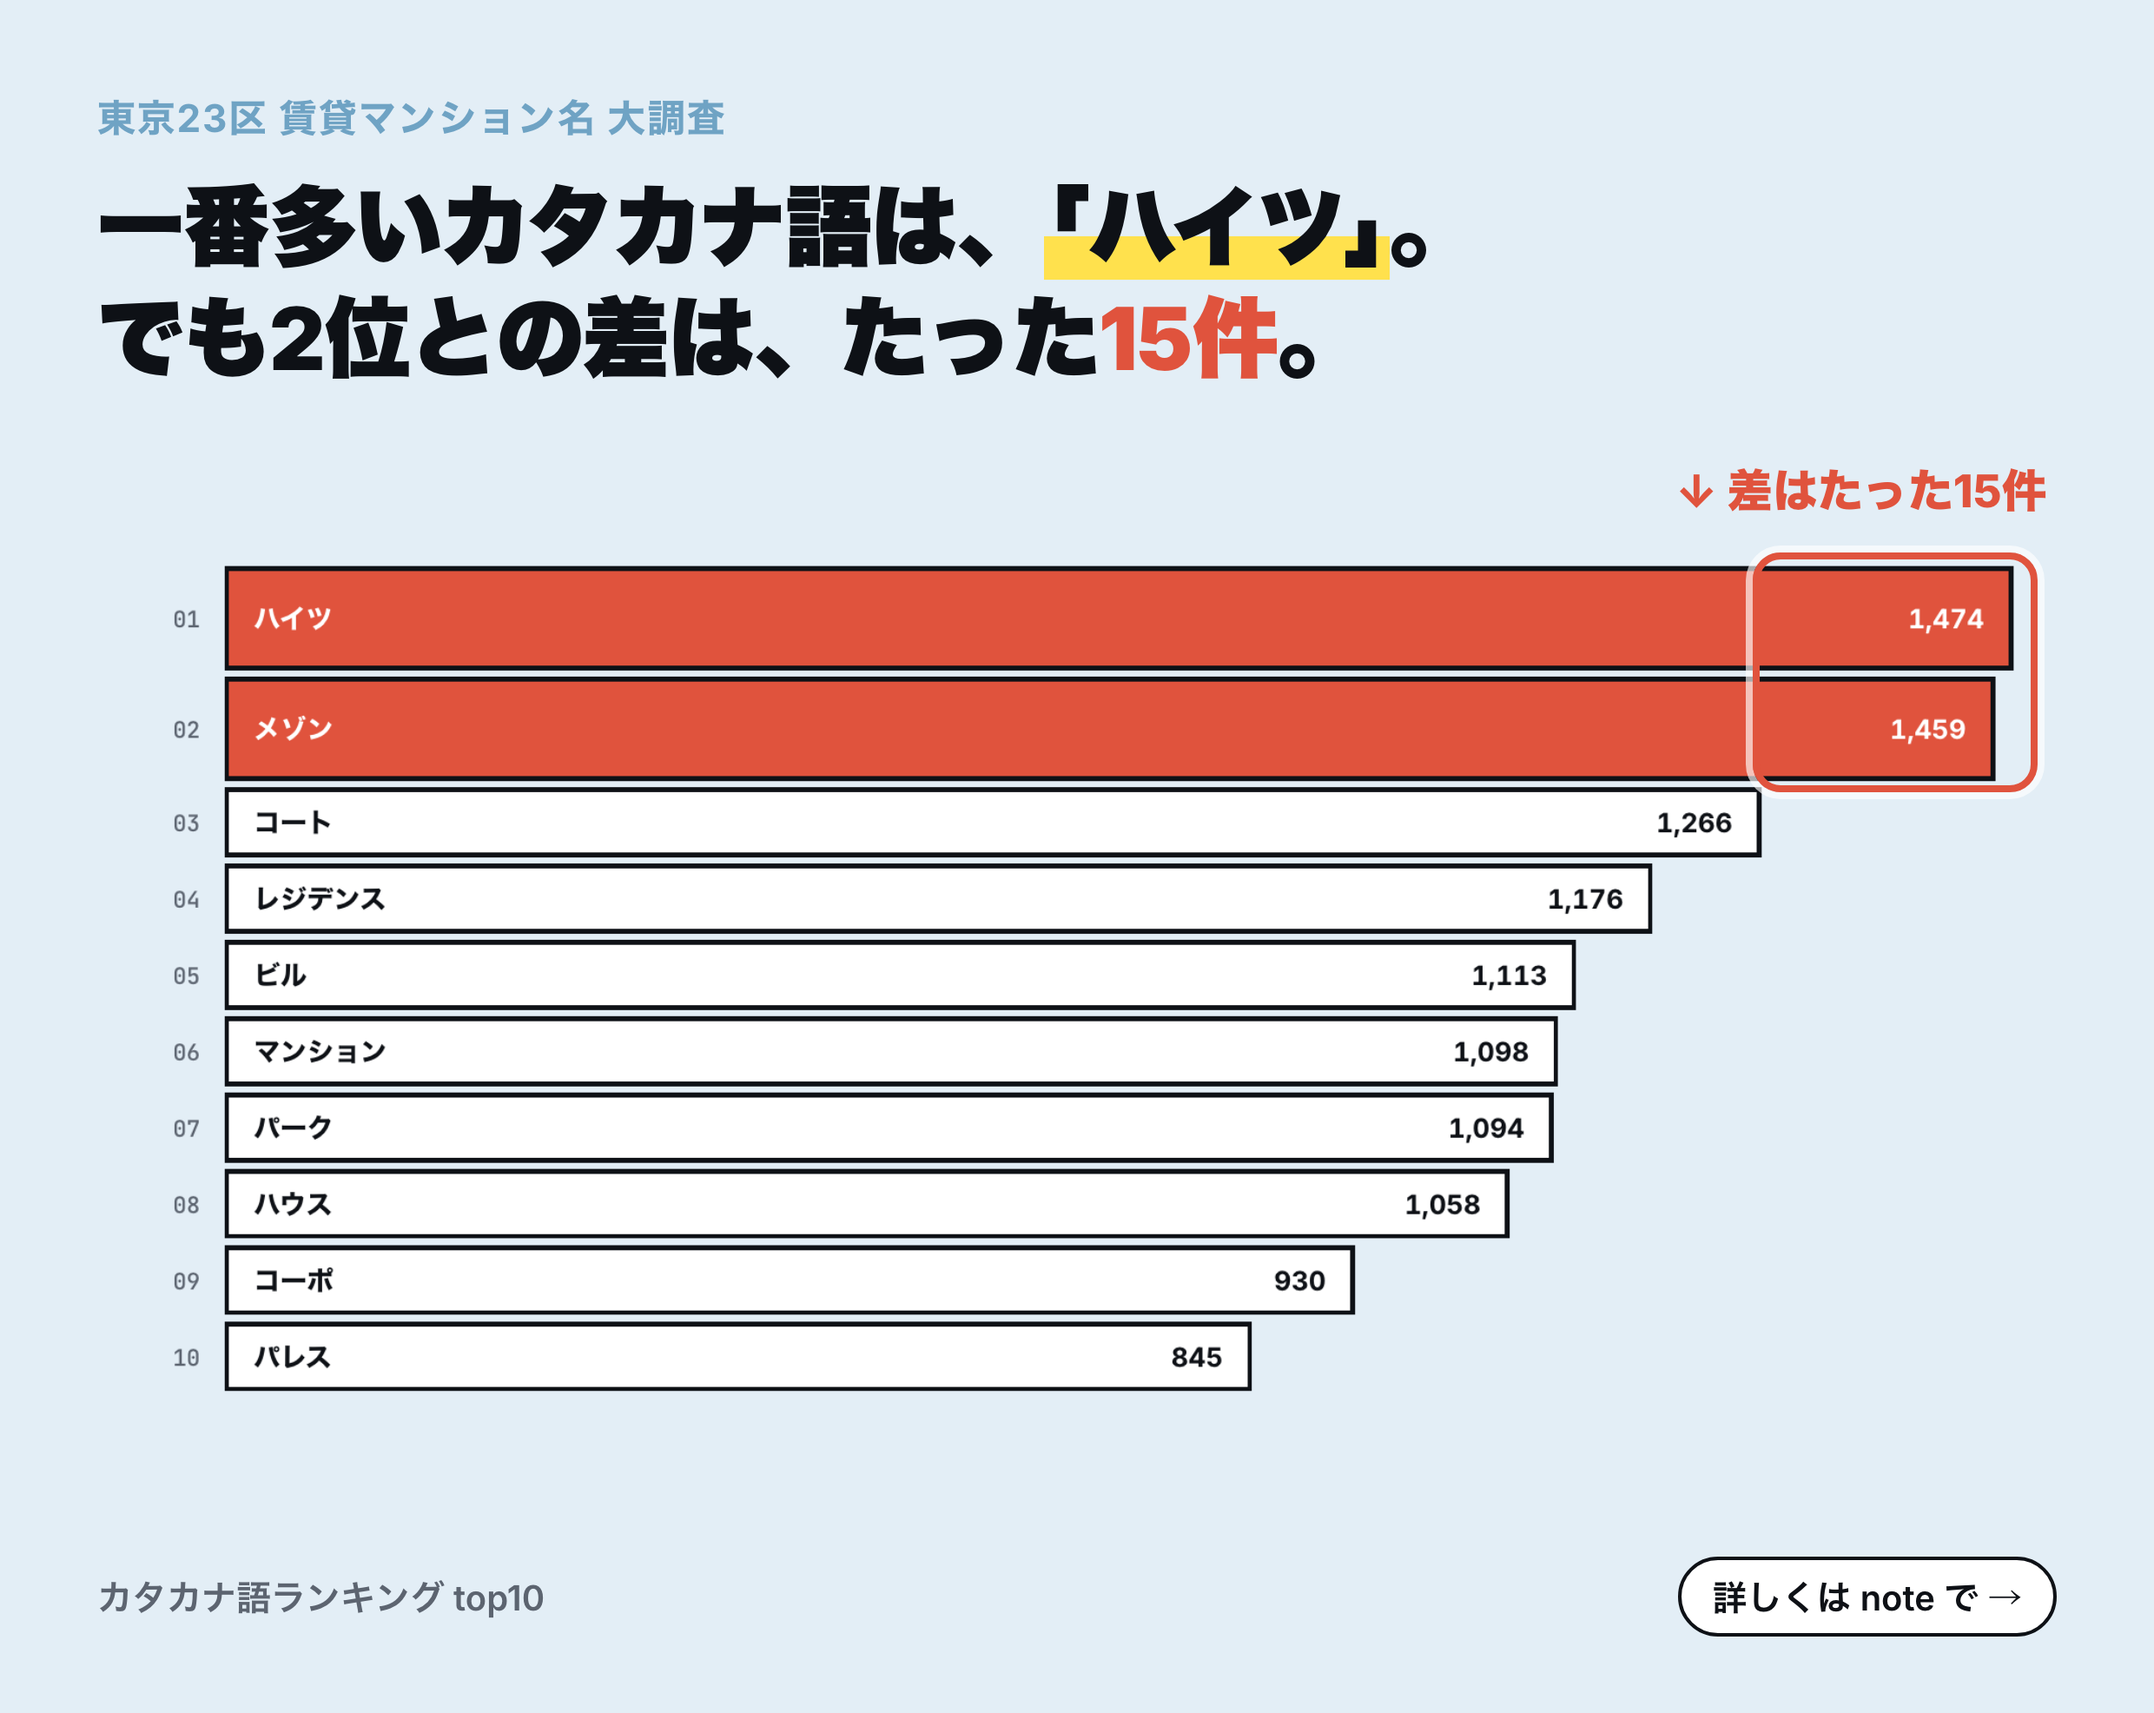
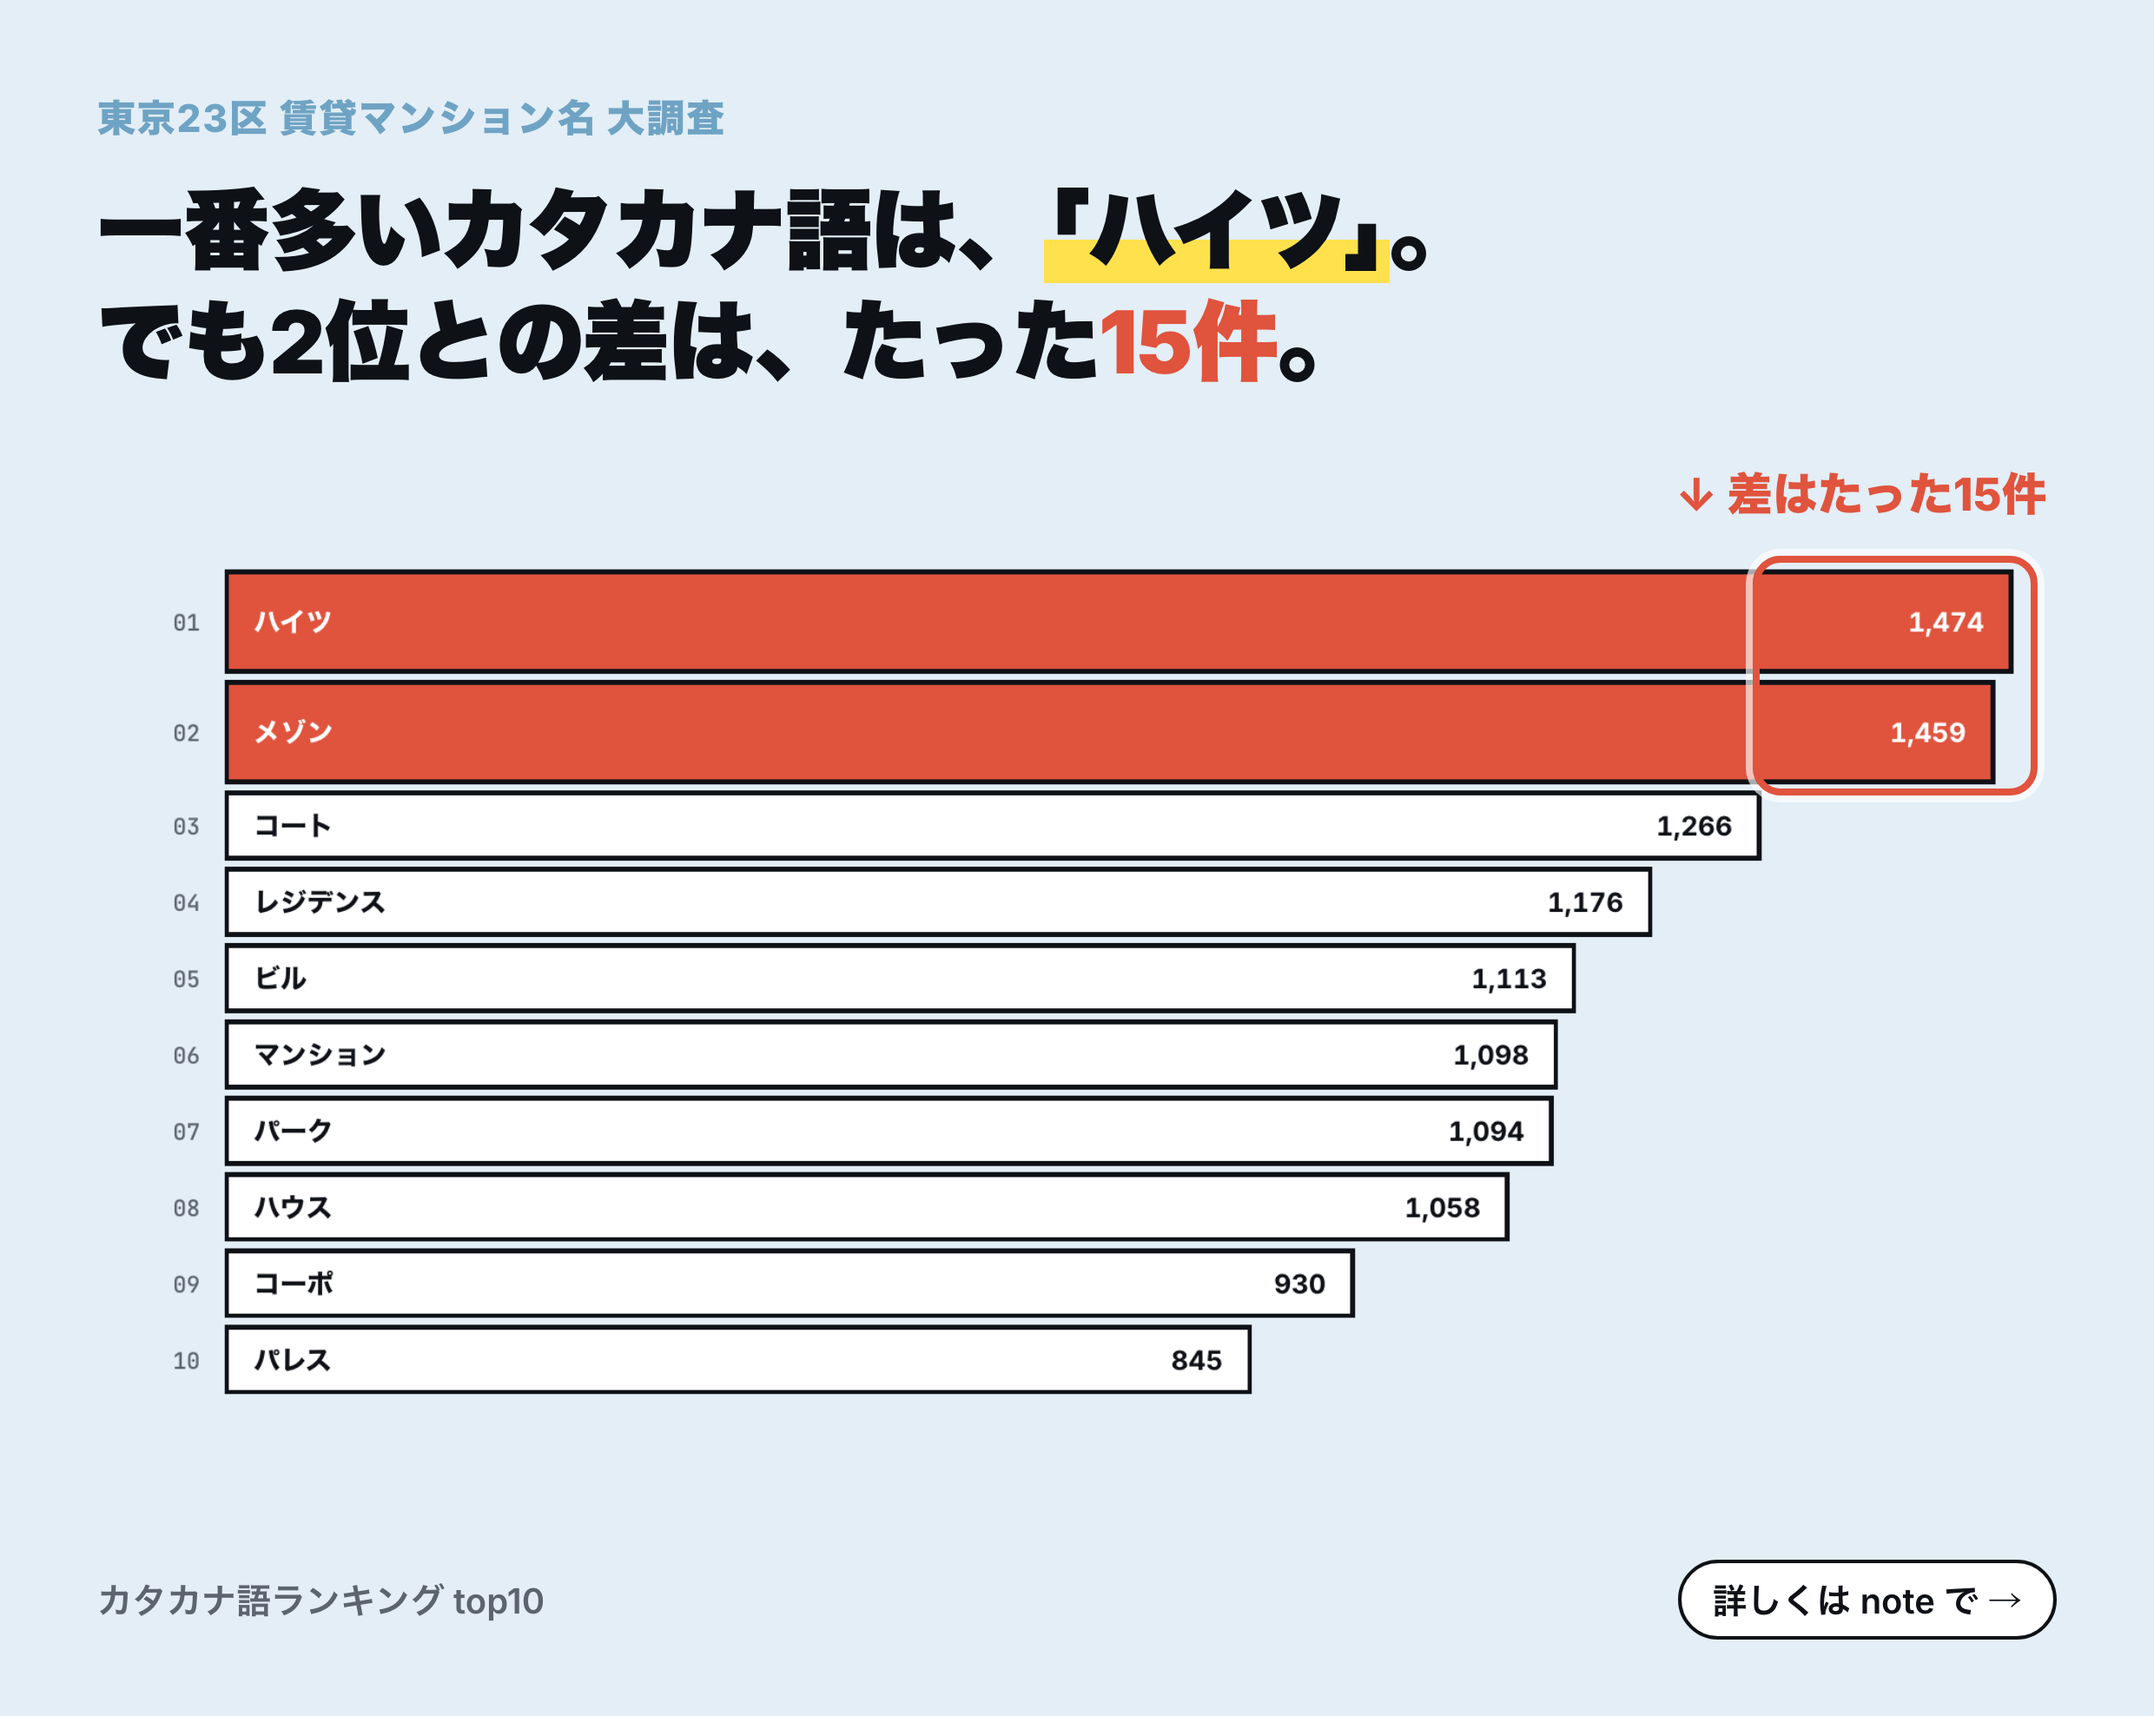
Update X post image styling with improved eyebrow formatting

diff --git a/exp/012_create_x_post_images.py b/exp/012_create_x_post_images.py
@@ -58,11 +58,12 @@ PAGE_TEMPLATE = """<!doctype html>
         color: var(--ink);
       }
       .eyebrow {
+        display: inline-block;
         font-size: 22px;
-        font-weight: 700;
+        font-weight: 800;
         letter-spacing: 0.04em;
         color: var(--accent);
-        margin: 0 0 14px;
+        margin: 0 0 16px;
       }
       .headline {
         font-size: 50px;
